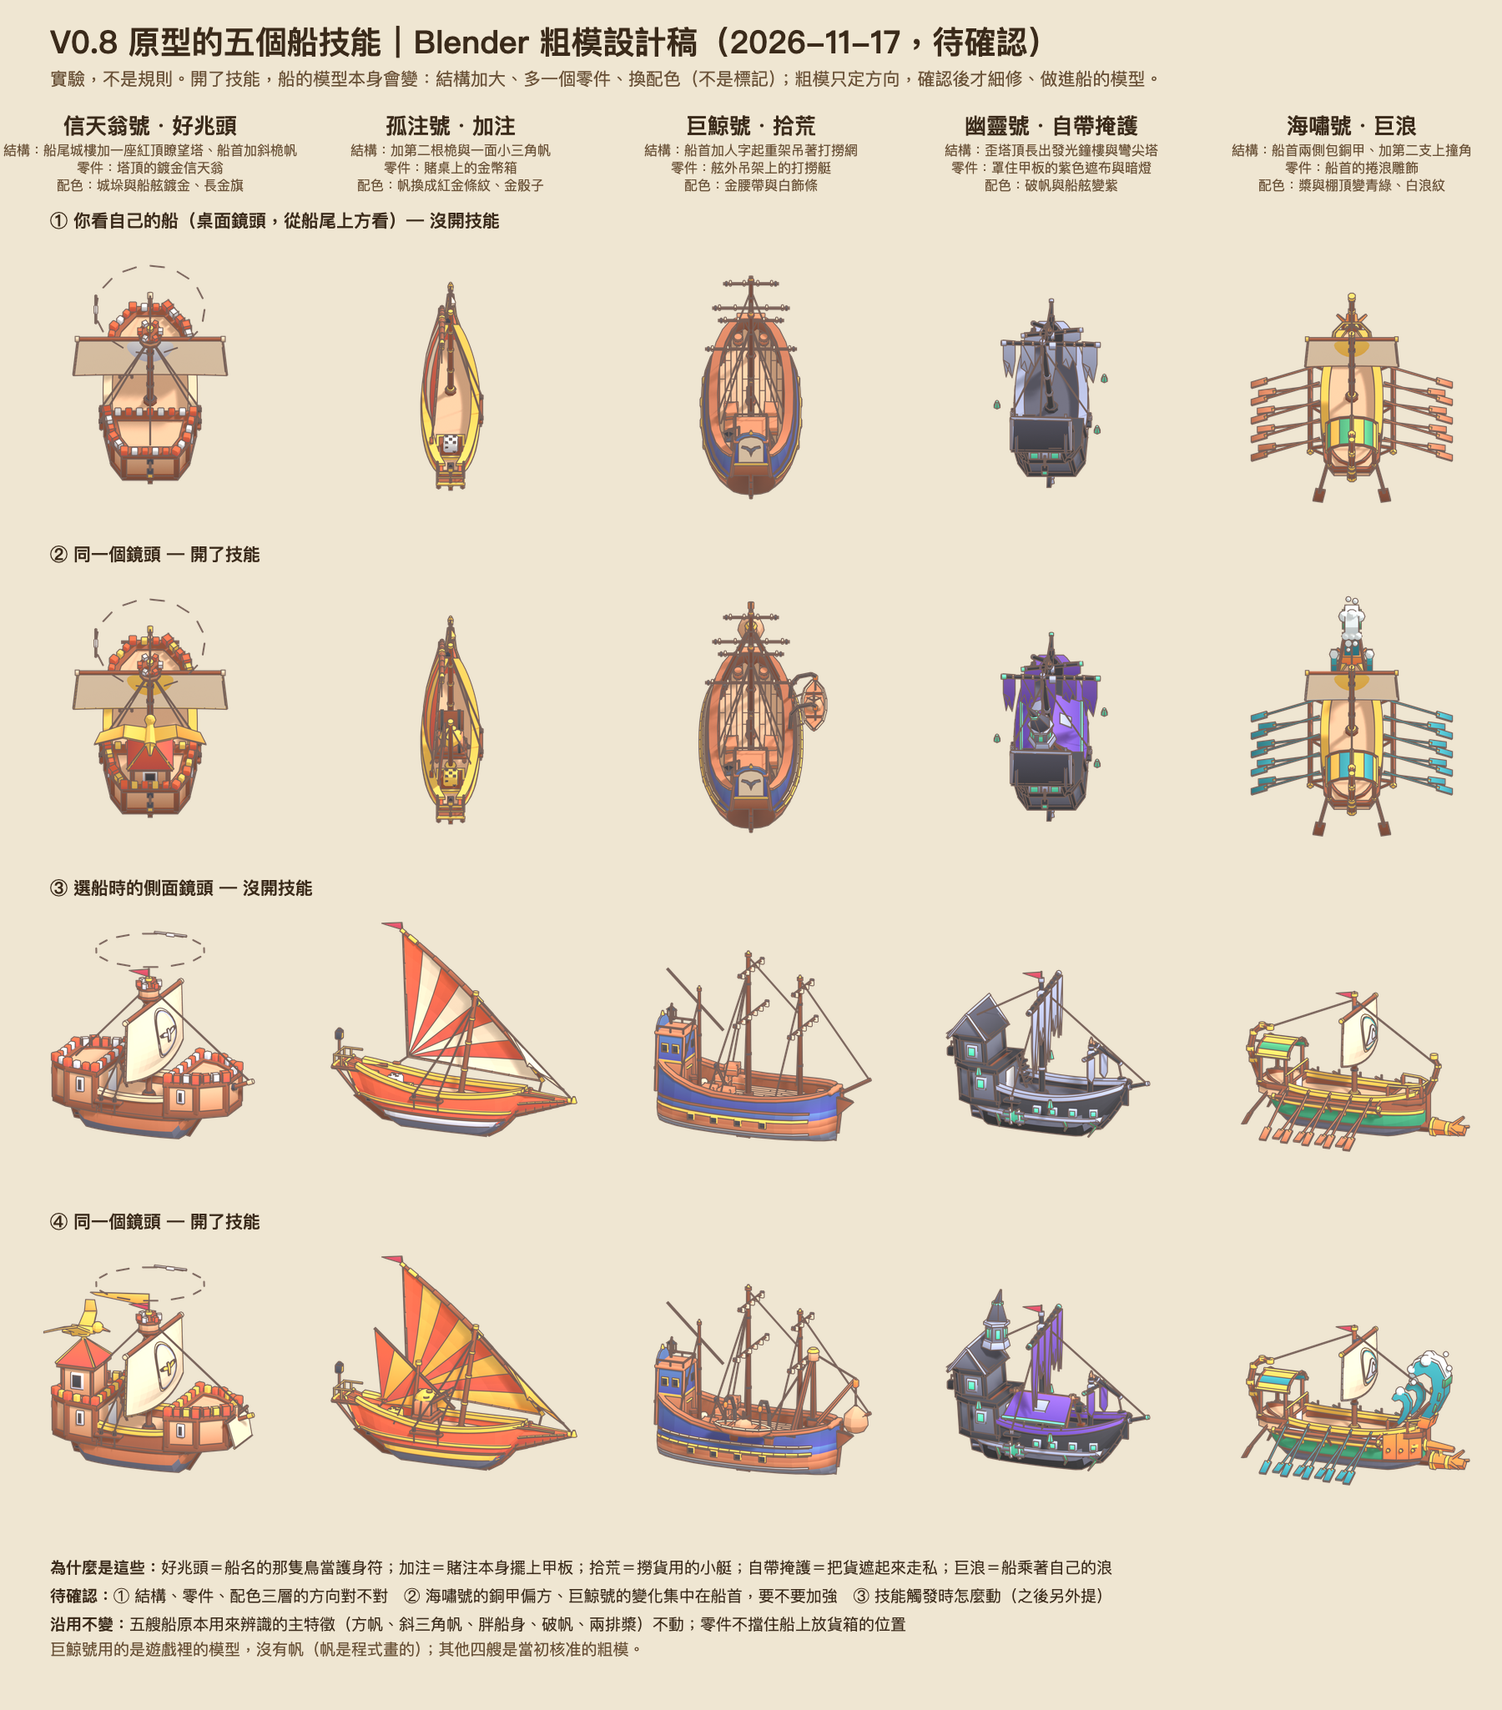
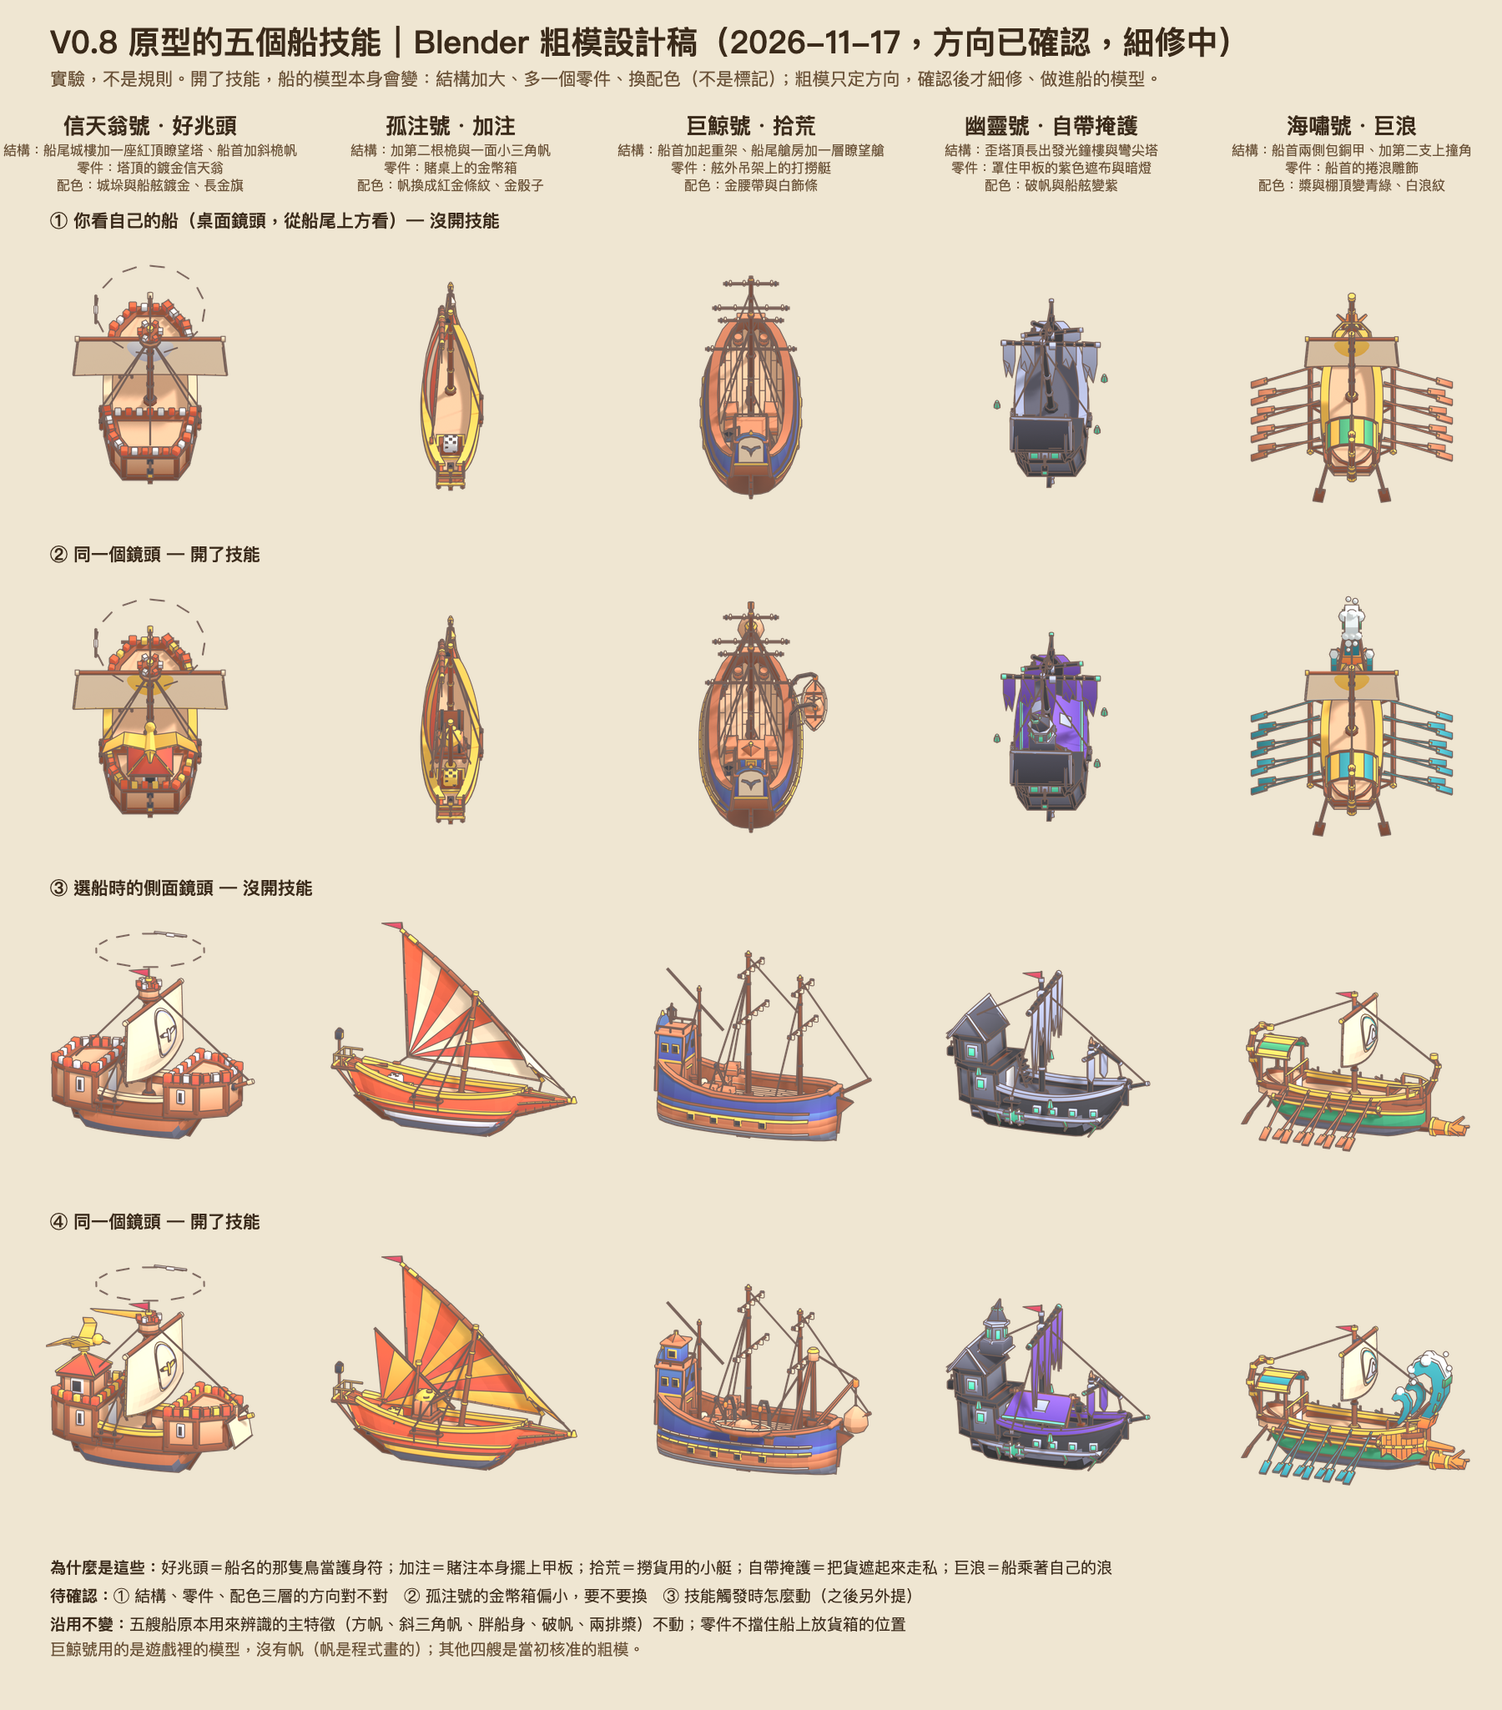
docs: refine the V0.8 ship skill blockouts (heights, joints, the galley's armour, the fluyt's stern)
Measured against the ship-pick camera's box (5.6): the cog's tower and albatross and the ghost ship's spire were too
tall and are lowered. The belfry sits on a saddle astride the ridge with flashing boards; the galley's cheek plates
follow the bow in fine steps with a wave-cut, gold-edged foot; the fluyt gains a lookout cabin on its stern house so
it changes aft as well as in the bows. Same-camera before/after in docs/art/blockouts/skills/.

diff --git a/scripts/blender/blockout-skills.py b/scripts/blender/blockout-skills.py
@@ -79,11 +79,11 @@ def ball(name, centre, radius, mat):
 def standard_skill():
     """好兆頭: a gilded albatross with its wings spread, perched on the peak of the lookout tower (the ship is named for
     it; the owner looks at the stern)."""
-    y0 = DECK + 2.0  # the peak of the lookout tower's roof (standard_build)
+    y0 = DECK + 1.6  # so that y0 + 0.9 is the peak of the lookout tower's roof (standard_build)
     z = -2.3
-    lathe("skill-perch-stem", (0, z), [(0.1, y0 + 0.9), (0.07, y0 + 1.2)], "gold", sides=8)
-    lathe("skill-perch", (0, z), [(0.22, y0 + 1.18), (0.22, y0 + 1.25)], "gold", sides=8)
-    yb = y0 + 1.3
+    lathe("skill-perch-stem", (0, z), [(0.12, y0 + 0.86), (0.07, y0 + 1.06)], "gold", sides=8)
+    lathe("skill-perch", (0, z), [(0.2, y0 + 1.04), (0.2, y0 + 1.1)], "gold", sides=8)
+    yb = y0 + 1.26
     beam("skill-body", (0, yb, z - 0.42), (0, yb + 0.1, z + 0.4), 0.42, "gold", sides=8, taper=0.6)
     ball("skill-head", (0, yb + 0.22, z + 0.52), 0.2, "gold")
     beam("skill-beak", (0, yb + 0.2, z + 0.66), (0, yb + 0.12, z + 0.98), 0.12, "brass", sides=4, taper=0.3)
@@ -93,8 +93,8 @@ def standard_skill():
         mesh_from(f"skill-wing-a{s}", [(s * 0.12, yb + 0.1, z + 0.28), (s * 0.12, yb + 0.04, z - 0.3), (s * 0.95, yb + 0.42, z - 0.36), (s * 0.9, yb + 0.5, z + 0.12),
                                       (s * 0.12, yb + 0.02, z + 0.28), (s * 0.12, yb - 0.04, z - 0.3), (s * 0.95, yb + 0.34, z - 0.36), (s * 0.9, yb + 0.42, z + 0.12)],
                   [[0, 1, 2, 3], [7, 6, 5, 4], [0, 4, 5, 1], [1, 5, 6, 2], [2, 6, 7, 3], [3, 7, 4, 0]], "gold", convex=True)
-        mesh_from(f"skill-wing-b{s}", [(s * 0.9, yb + 0.5, z + 0.12), (s * 0.95, yb + 0.42, z - 0.36), (s * 1.95, yb + 0.5, z - 0.72), (s * 1.75, yb + 0.6, z - 0.3),
-                                      (s * 0.9, yb + 0.43, z + 0.12), (s * 0.95, yb + 0.35, z - 0.36), (s * 1.95, yb + 0.45, z - 0.72), (s * 1.75, yb + 0.55, z - 0.3)],
+        mesh_from(f"skill-wing-b{s}", [(s * 0.9, yb + 0.5, z + 0.12), (s * 0.95, yb + 0.42, z - 0.36), (s * 1.7, yb + 0.36, z - 0.72), (s * 1.55, yb + 0.44, z - 0.3),
+                                      (s * 0.9, yb + 0.43, z + 0.12), (s * 0.95, yb + 0.35, z - 0.36), (s * 1.7, yb + 0.31, z - 0.72), (s * 1.55, yb + 0.39, z - 0.3)],
                   [[0, 1, 2, 3], [7, 6, 5, 4], [0, 4, 5, 1], [1, 5, 6, 2], [2, 6, 7, 3], [3, 7, 4, 0]], "roofGold", convex=True)
 
 
@@ -242,22 +242,22 @@ def standard_build():
     perches on its peak) and a spritsail set under the bowsprit."""
     y0, z = DECK + 1.05, -2.3
     plan = [(0.62, z + 0.55), (0.62, z - 0.55), (-0.62, z - 0.55), (-0.62, z + 0.55)]
-    plan_solid("skill-tower", plan, y0, y0 + 1.15, "sandstone")
+    plan_solid("skill-tower", plan, y0, y0 + 0.82, "sandstone")
     plan_ring("skill-tower-foot", offset(plan, 0.08), offset(plan, -0.02), y0, y0 + 0.14, "woodDark")
-    plan_ring("skill-tower-eave", offset(plan, 0.16), offset(plan, -0.02), y0 + 1.1, y0 + 1.24, "woodDark")
+    plan_ring("skill-tower-eave", offset(plan, 0.16), offset(plan, -0.02), y0 + 0.78, y0 + 0.92, "woodDark")
     for k, (x, zc) in enumerate(plan):
-        beam(f"skill-tower-post{k}", (x, y0, zc), (x, y0 + 1.15, zc), 0.14, "woodDark", sides=4)
+        beam(f"skill-tower-post{k}", (x, y0, zc), (x, y0 + 0.82, zc), 0.14, "woodDark", sides=4)
     for sx in (-1, 1):
-        framed_opening(f"skill-tower-win{sx}", (sx * 0.62, y0 + 0.62, z), (0.3, 0.42), True)
-    framed_opening("skill-tower-win-aft", (0, y0 + 0.62, z - 0.55), (0.34, 0.42), False)
+        framed_opening(f"skill-tower-win{sx}", (sx * 0.62, y0 + 0.44, z), (0.3, 0.36), True)
+    framed_opening("skill-tower-win-aft", (0, y0 + 0.44, z - 0.55), (0.34, 0.36), False)
     # Pyramid roof in the castle's red, with gold hips.
-    apex = (0, y0 + 2.05, z)
+    apex = (0, y0 + 1.5, z)
     eaves = offset(plan, 0.18)
     for k in range(4):
         (xa, za), (xb, zb) = eaves[k], eaves[(k + 1) % 4]
-        mesh_from(f"skill-roof{k}", [(xa, y0 + 1.22, za), (xb, y0 + 1.22, zb), apex, (xa * 0.9, y0 + 1.16, za * 0.9 + z * 0.1), (xb * 0.9, y0 + 1.16, zb * 0.9 + z * 0.1)],
+        mesh_from(f"skill-roof{k}", [(xa, y0 + 0.9, za), (xb, y0 + 0.9, zb), apex, (xa * 0.9, y0 + 0.84, za * 0.9 + z * 0.1), (xb * 0.9, y0 + 0.84, zb * 0.9 + z * 0.1)],
                   [[0, 1, 2], [0, 3, 4, 1], [1, 4, 2], [3, 0, 2], [4, 3, 2]], "roofRed", convex=True)
-        beam(f"skill-hip{k}", (xa, y0 + 1.24, za), apex, 0.1, "gold", sides=4, taper=0.5)
+        beam(f"skill-hip{k}", (xa, y0 + 0.92, za), apex, 0.1, "gold", sides=4, taper=0.5)
     # Spritsail: a small square sail on its own yard under the bowsprit, gold-hemmed.
     by, bz = DECK + 0.95, 3.45
     beam("skill-sprit-yard", (-1.0, by, bz), (1.0, by, bz), 0.1, "woodDark", sides=6)
@@ -299,6 +299,19 @@ def freighter_build():
     beam("skill-derrick-jib", (0, DECK + 0.6, 2.75), jib, 0.18, "wood", sides=6, taper=0.7)
     beam("skill-derrick-topping", head, jib, 0.05, "rope", sides=4)
     beam("skill-derrick-stay", head, (0, DECK + 0.4, 0.9), 0.05, "rope", sides=4)
+    # A lookout cabin on the stern house's roof: blue like the house, gold-banded, a little hipped roof, a lit window aft.
+    cz_, y0 = -2.62, 3.4
+    box("skill-cabin-sill", (0, y0 + 0.04, cz_), (0.86, 0.08, 0.74), "woodDark", bevel=0.02)
+    box("skill-cabin", (0, y0 + 0.38, cz_), (0.74, 0.6, 0.62), "roofBlue", bevel=0.03)
+    box("skill-cabin-band", (0, y0 + 0.68, cz_), (0.8, 0.07, 0.68), "gold", bevel=0.01)
+    box("skill-cabin-roof", (0, y0 + 0.76, cz_), (0.96, 0.1, 0.84), "wood", bevel=0.03)
+    lathe("skill-cabin-cap", (0, cz_), [(0.36, y0 + 0.8), (0.08, y0 + 1.02)], "wood", sides=4)
+    lathe("skill-cabin-finial", (0, cz_), [(0.07, y0 + 1.0), (0.07, y0 + 1.14)], "gold", sides=6)
+    box("skill-cabin-win-frame", (0, y0 + 0.4, cz_ - 0.31), (0.4, 0.36, 0.05), "gold", bevel=0.01)
+    box("skill-cabin-win", (0, y0 + 0.4, cz_ - 0.335), (0.28, 0.24, 0.03), "flame", bevel=0.0)
+    for sx in (-1, 1):
+        box(f"skill-cabin-side-frame{sx}", (sx * 0.37, y0 + 0.4, cz_), (0.05, 0.32, 0.34), "gold", bevel=0.01)
+        box(f"skill-cabin-side-win{sx}", (sx * 0.395, y0 + 0.4, cz_), (0.03, 0.2, 0.22), "dark", bevel=0.0)
     box("skill-derrick-block", (0, 3.42, 4.15), (0.2, 0.26, 0.16), "brass", bevel=0.03)
     beam("skill-derrick-fall", (0, 3.3, 4.15), (0, 2.55, 4.15), 0.05, "rope", sides=4)
     lathe("skill-derrick-net", (0, 4.15), [(0.06, 2.6), (0.42, 2.25), (0.46, 1.95), (0.3, 1.7), (0.08, 1.62)], "rope", sides=8)
@@ -311,16 +324,20 @@ def hidden_build():
     d = design
     eave = d.TOWER_TOP + 1.0  # the gable roof's ridge
     cx, cz = 0.32, -2.02
-    lathe("skill-belfry-foot", (cx, cz), [(0.5, eave - 0.2), (0.44, eave + 0.05)], "ghostCloth", sides=6)
+    # A saddle astride the ridge: a dark block bedded into both slopes, pale flashing boards where it meets them.
+    box("skill-belfry-saddle", (cx, eave - 0.16, cz), (0.92, 0.5, 0.9), "basalt", bevel=0.04)
+    for sz in (-1, 1):
+        beam(f"skill-belfry-flash{sz}", (cx - 0.5, eave - 0.3, cz + sz * 0.47), (cx + 0.5, eave - 0.3, cz + sz * 0.47), 0.11, "ghostCloth", sides=4)
+    lathe("skill-belfry-foot", (cx, cz), [(0.5, eave + 0.02), (0.44, eave + 0.12)], "ghostCloth", sides=6)
     lathe("skill-belfry", (cx + 0.04, cz), [(0.4, eave + 0.0), (0.36, eave + 0.62)], "slate", sides=6)
     lathe("skill-belfry-rim", (cx + 0.06, cz), [(0.46, eave + 0.6), (0.46, eave + 0.7)], "ghostCloth", sides=6)
     for k in range(6):
         a = math.pi / 3 * k + math.pi / 6
         box(f"skill-belfry-glow{k}", (cx + 0.05 + math.cos(a) * 0.35, eave + 0.32, cz + math.sin(a) * 0.35), (0.16, 0.34, 0.06), "ghostGlow", bevel=0.0, yaw=-a + math.pi / 2)
     # The spire leans the tower's way, bent again near its tip.
-    beam("skill-spire-a", (cx + 0.07, eave + 0.68, cz), (cx + 0.28, eave + 1.3, cz - 0.05), 0.8, "basalt", sides=6, taper=0.4)
-    beam("skill-spire-b", (cx + 0.28, eave + 1.28, cz - 0.05), (cx + 0.52, eave + 1.72, cz - 0.02), 0.32, "basalt", sides=6, taper=0.15)
-    lathe("skill-spire-band", (cx + 0.28, cz - 0.05), [(0.2, eave + 1.24), (0.2, eave + 1.34)], "ghostGlow", sides=6)
+    beam("skill-spire-a", (cx + 0.07, eave + 0.68, cz), (cx + 0.24, eave + 1.1, cz - 0.05), 0.8, "basalt", sides=6, taper=0.4)
+    beam("skill-spire-b", (cx + 0.24, eave + 1.08, cz - 0.05), (cx + 0.44, eave + 1.4, cz - 0.02), 0.32, "basalt", sides=6, taper=0.15)
+    lathe("skill-spire-band", (cx + 0.24, cz - 0.05), [(0.2, eave + 1.04), (0.2, eave + 1.14)], "ghostGlow", sides=6)
 
 
 def breaker_build():
@@ -331,13 +348,19 @@ def breaker_build():
     beam("skill-upper-ram-collar", (0, 1.05, zb - 0.02), (0, 1.05, zb + 0.1), 0.48, "gold", sides=8)
     beam("skill-ram-strut", (0, 0.55, 3.55), (0, 1.0, 3.55), 0.14, "gold", sides=6)
     for s in (-1, 1):
-        zs = [1.75, 2.2, 2.6, 2.95]
+        zs = [1.7 + 1.3 * k / 8 for k in range(9)]
+        foot = lambda z: 0.72 + 0.16 * math.sin((z - 1.7) / 1.3 * math.pi * 3)  # noqa: E731  a wave-cut lower edge
         for k in range(len(zs) - 1):
             z0, z1 = zs[k], zs[k + 1]
-            x0, x1 = d.outer_x(z0, 1.0) + 0.05, d.outer_x(z1, 1.0) + 0.05
-            quad_slab(f"skill-cheek{s}{k}", [(s * x0, d.sheer(z0) - 0.02, z0), (s * x1, d.sheer(z1) - 0.02, z1), (s * x1, 0.62, z1), (s * x0, 0.62, z0)], 0.06, "brass", axis=(s, 0, 0))
-            beam(f"skill-cheek-rivet{s}{k}", (s * (x0 + 0.08), 1.0, (z0 + z1) / 2), (s * (x0 + 0.14), 1.0, (z0 + z1) / 2), 0.14, "gold", sides=6)
-        beam(f"skill-cheek-rail{s}", (s * (d.outer_x(1.75, 1.0) + 0.09), d.sheer(1.75) + 0.02, 1.75), (s * (d.outer_x(2.95, 1.0) + 0.09), d.sheer(2.95) + 0.02, 2.95), 0.1, "gold", sides=4)
+            x0, x1 = d.outer_x(z0, 1.0) + 0.04, d.outer_x(z1, 1.0) + 0.04
+            quad_slab(f"skill-cheek{s}{k}", [(s * x0, d.sheer(z0) - 0.03, z0), (s * x1, d.sheer(z1) - 0.03, z1), (s * (d.outer_x(z1, foot(z1)) + 0.04), foot(z1), z1), (s * (d.outer_x(z0, foot(z0)) + 0.04), foot(z0), z0)], 0.05, "brass", axis=(s, 0, 0))
+            beam(f"skill-cheek-foot{s}{k}", (s * (d.outer_x(z0, foot(z0)) + 0.08), foot(z0), z0), (s * (d.outer_x(z1, foot(z1)) + 0.08), foot(z1), z1), 0.07, "gold", sides=4)
+            if k % 2 == 0:
+                zm = (z0 + z1) / 2
+                beam(f"skill-cheek-rivet{s}{k}", (s * (d.outer_x(zm, 1.1) + 0.07), 1.1, zm), (s * (d.outer_x(zm, 1.1) + 0.12), 1.1, zm), 0.09, "gold", sides=6)
+        for z_end in (zs[0], zs[-1]):
+            beam(f"skill-cheek-end{s}{z_end:.2f}", (s * (d.outer_x(z_end, 1.0) + 0.08), d.sheer(z_end), z_end), (s * (d.outer_x(z_end, foot(z_end)) + 0.08), foot(z_end), z_end), 0.07, "gold", sides=4)
+        beam(f"skill-cheek-rail{s}", (s * (d.outer_x(zs[0], 1.0) + 0.08), d.sheer(zs[0]) + 0.02, zs[0]), (s * (d.outer_x(zs[-1], 1.0) + 0.08), d.sheer(zs[-1]) + 0.02, zs[-1]), 0.09, "gold", sides=4)
 
 
 BUILDS = {"standard": standard_build, "gambler": gambler_build, "freighter": freighter_build, "hidden": hidden_build, "breaker": breaker_build}
@@ -372,8 +395,8 @@ def livery_trims():
                 beam(f"skill-belt-b{side}{i}", (side * (half(zs[i]) * 0.93 + 0.03), 1.24, zs[i]), (side * (half(zs[i + 1]) * 0.93 + 0.03), 1.24, zs[i + 1]), 0.09, "plaster", sides=4)
     if SHIP == "standard":
         # A long gold-edged streamer at the masthead in place of the short pennant.
-        y = design.MAST_TOP + 0.5
-        mesh_from("skill-streamer", [(0, y + 0.22, design.MAST_Z), (0, y - 0.22, design.MAST_Z), (0, y - 0.05, design.MAST_Z - 2.0), (0, y + 0.02, design.MAST_Z - 2.2), (0.03, y + 0.22, design.MAST_Z), (0.03, y - 0.22, design.MAST_Z), (0.03, y - 0.05, design.MAST_Z - 2.0), (0.03, y + 0.02, design.MAST_Z - 2.2)],
+        y = design.MAST_TOP - 0.1  # at the masthead, inside the ship-pick box
+        mesh_from("skill-streamer", [(0, y + 0.16, design.MAST_Z), (0, y - 0.16, design.MAST_Z), (0, y - 0.05, design.MAST_Z - 2.0), (0, y + 0.02, design.MAST_Z - 2.2), (0.03, y + 0.16, design.MAST_Z), (0.03, y - 0.16, design.MAST_Z), (0.03, y - 0.05, design.MAST_Z - 2.0), (0.03, y + 0.02, design.MAST_Z - 2.2)],
                   [[0, 1, 2, 3], [7, 6, 5, 4], [0, 4, 5, 1], [1, 5, 6, 2], [2, 6, 7, 3], [3, 7, 4, 0]], "roofGold", convex=True)
     if SHIP == "breaker":
         # A white wave band along each side above the oars.
@@ -432,7 +455,17 @@ def orbit(name, azimuth, elevation, target, scale, res):
     return camera(name, V(*(t + d)), V(*t), scale, res)
 
 
-VIEWS = {"own": orbit("cam-own", 180, 54, (0, 2.2, 0.2), 10.5, (900, 900)), "side": orbit("cam-side", -68, 18, (0, 2.9, 0.2), 10.5, (900, 900))}
+# A close look at what the skill builds, for checking joints and trims: (target, azimuth, elevation, scale).
+NEAR = {
+    "standard": ((0, 3.4, -2.2), -135, 20, 4.6),
+    "gambler": ((0, 2.6, -1.4), -75, 16, 5.2),
+    "freighter": ((0, 3.0, -1.6), -120, 18, 5.4),
+    "hidden": ((0.2, 3.9, -1.6), -120, 16, 4.6),
+    "breaker": ((0, 1.9, 3.1), -55, 18, 4.6),
+}
+top = max((ob.matrix_world @ v.co).z for ob in skill_obs for v in ob.data.vertices) if skill_obs else 0
+print(f"HEIGHT {SHIP} skill parts reach {top:.2f} (ship-pick box {SHIP_BOX_TOP})")
+VIEWS = {"own": orbit("cam-own", 180, 54, (0, 2.2, 0.2), 10.5, (900, 900)), "side": orbit("cam-side", -68, 18, (0, 2.9, 0.2), 10.5, (900, 900)), "near": orbit("cam-near", NEAR[SHIP][1], NEAR[SHIP][2], NEAR[SHIP][0], NEAR[SHIP][3], (900, 900))}
 os.makedirs(OUT, exist_ok=True)
 for state in ("off", "on"):
     for ob in skill_obs:

diff --git a/docs/proposals/2026-11-v08-presentation-plan.md b/docs/proposals/2026-11-v08-presentation-plan.md
@@ -70,7 +70,7 @@
 | 0. 畫面說真話 | 完成（2026-11-16）：船卡是掉箱表（含自己的建築、風暴潮、這回合的修正）；回合數不寫總數，最後一回合會標出；選島卡、島徽章、排行的自由港與燈塔島文字；左上角常駐暗潮晶片（兩個候選 → 揭曉後那一種，滑過看效果與擋得住的）。暗潮晶片的圖示是暫用的，第 4 步再做。 |
 | 1. 出航結算（件數制） | 完成（2026-11-17）：結算拍先打開貨艙，掉的箱子一箱一箱被拋出船舷落水（水花、水面圈、落水處跳「−1」與貨的圖示），船旁的標籤把掉的箱子劃掉並寫「掉 N 箱」，掉完船才進港。資料只用引擎的公開事件（`ship-resolved.lost`）；掉的是哪幾箱是準的，演出的先後順序固定照軍火、香料、鐵礦、木材。預覽：`/v07.html?dev=beat3d&v08`。還沒做：掉箱的音效、孤注號與海嘯號倍率的演出、沉船時整船貨的演出沒變。 |
 | 2. 材料動作與建築 | 進行中（2026-11-17）：舊的四棟程式碼建築不沿用（使用者：不夠精緻，都是多邊體堆砌而成），三棟都在 Blender 重做。粗模設計稿 [`../art/facilities-concept.png`](../art/facilities-concept.png)（`scripts/blender/blockout-facilities.py`）方向使用者已確認（2026-11-17）：主要特徵朝島的後方（你看自己的島時看到的那一面），碼頭側、側面也各有東西；粗模細修中，下一步匯出 GLB 放上島。材料動作的操作還沒做。 |
-| 3. 船技能 | 進行中（2026-11-17）：五個零件的粗模設計稿 [`../art/skills-concept.png`](../art/skills-concept.png)（`scripts/blender/blockout-skills.py`）**待使用者確認**：信天翁號＝船尾城樓上的鍍金信天翁、孤注號＝賭桌上打開的金幣箱、巨鯨號＝舷外吊架上的打撈艇、幽靈號＝罩住甲板的紫色遮布與暗燈、海嘯號＝船首的捲浪雕飾。使用者要求（2026-11-17）：除了零件，船本身的外觀也要變，讓人感覺升級了；設計稿已加上每艘船的升級外觀（鍍金城垛與長金旗、紅金條紋帆、金腰帶、紫色破帆、青綠槳與白浪紋）。使用者再說明（2026-11-17）：不只換色，連同建模都要有變化；設計稿再加上每艘船結構上的升級（信天翁號船尾加紅頂瞭望塔與船首斜桅帆、孤注號加第二根桅、巨鯨號船首加起重架、幽靈號歪塔長出鐘樓與尖塔、海嘯號船首包銅甲與第二支上撞角），高度都不超過選船鏡頭的 5.6。確認前不建模。加注的宣告與觸發演出還沒做。 |
+| 3. 船技能 | 進行中（2026-11-17）：五個零件的粗模設計稿 [`../art/skills-concept.png`](../art/skills-concept.png)（`scripts/blender/blockout-skills.py`）**待使用者確認**：信天翁號＝船尾城樓上的鍍金信天翁、孤注號＝賭桌上打開的金幣箱、巨鯨號＝舷外吊架上的打撈艇、幽靈號＝罩住甲板的紫色遮布與暗燈、海嘯號＝船首的捲浪雕飾。使用者要求（2026-11-17）：除了零件，船本身的外觀也要變，讓人感覺升級了；設計稿已加上每艘船的升級外觀（鍍金城垛與長金旗、紅金條紋帆、金腰帶、紫色破帆、青綠槳與白浪紋）。使用者再說明（2026-11-17）：不只換色，連同建模都要有變化；設計稿再加上每艘船結構上的升級（信天翁號船尾加紅頂瞭望塔與船首斜桅帆、孤注號加第二根桅、巨鯨號船首加起重架、幽靈號歪塔長出鐘樓與尖塔、海嘯號船首包銅甲與第二支上撞角），高度都不超過選船鏡頭的 5.6。方向使用者已確認（2026-11-17），細修中：新結構的高度量過都在 5.6 以內（信天翁號與幽靈號原本超過，已降低）；幽靈號的鐘樓改成跨坐在屋脊的鞍座上，海嘯號的銅甲改成順著船首、下緣浪形、金邊收邊，巨鯨號船尾艙房多一層瞭望艙。還沒做進船的模型。加注的宣告與觸發演出還沒做。 |
 | 4 | 未開始 |
 
 已知還沒處理：規則書面板（`RulesPanel`）、貨物說明（`GoodIcon`）、通緝令文字還是讀正式規則；結算拍的骰值上限與角色加成兩處也寫死正式規則，但這兩處的數值原型沒改，結果相同。
